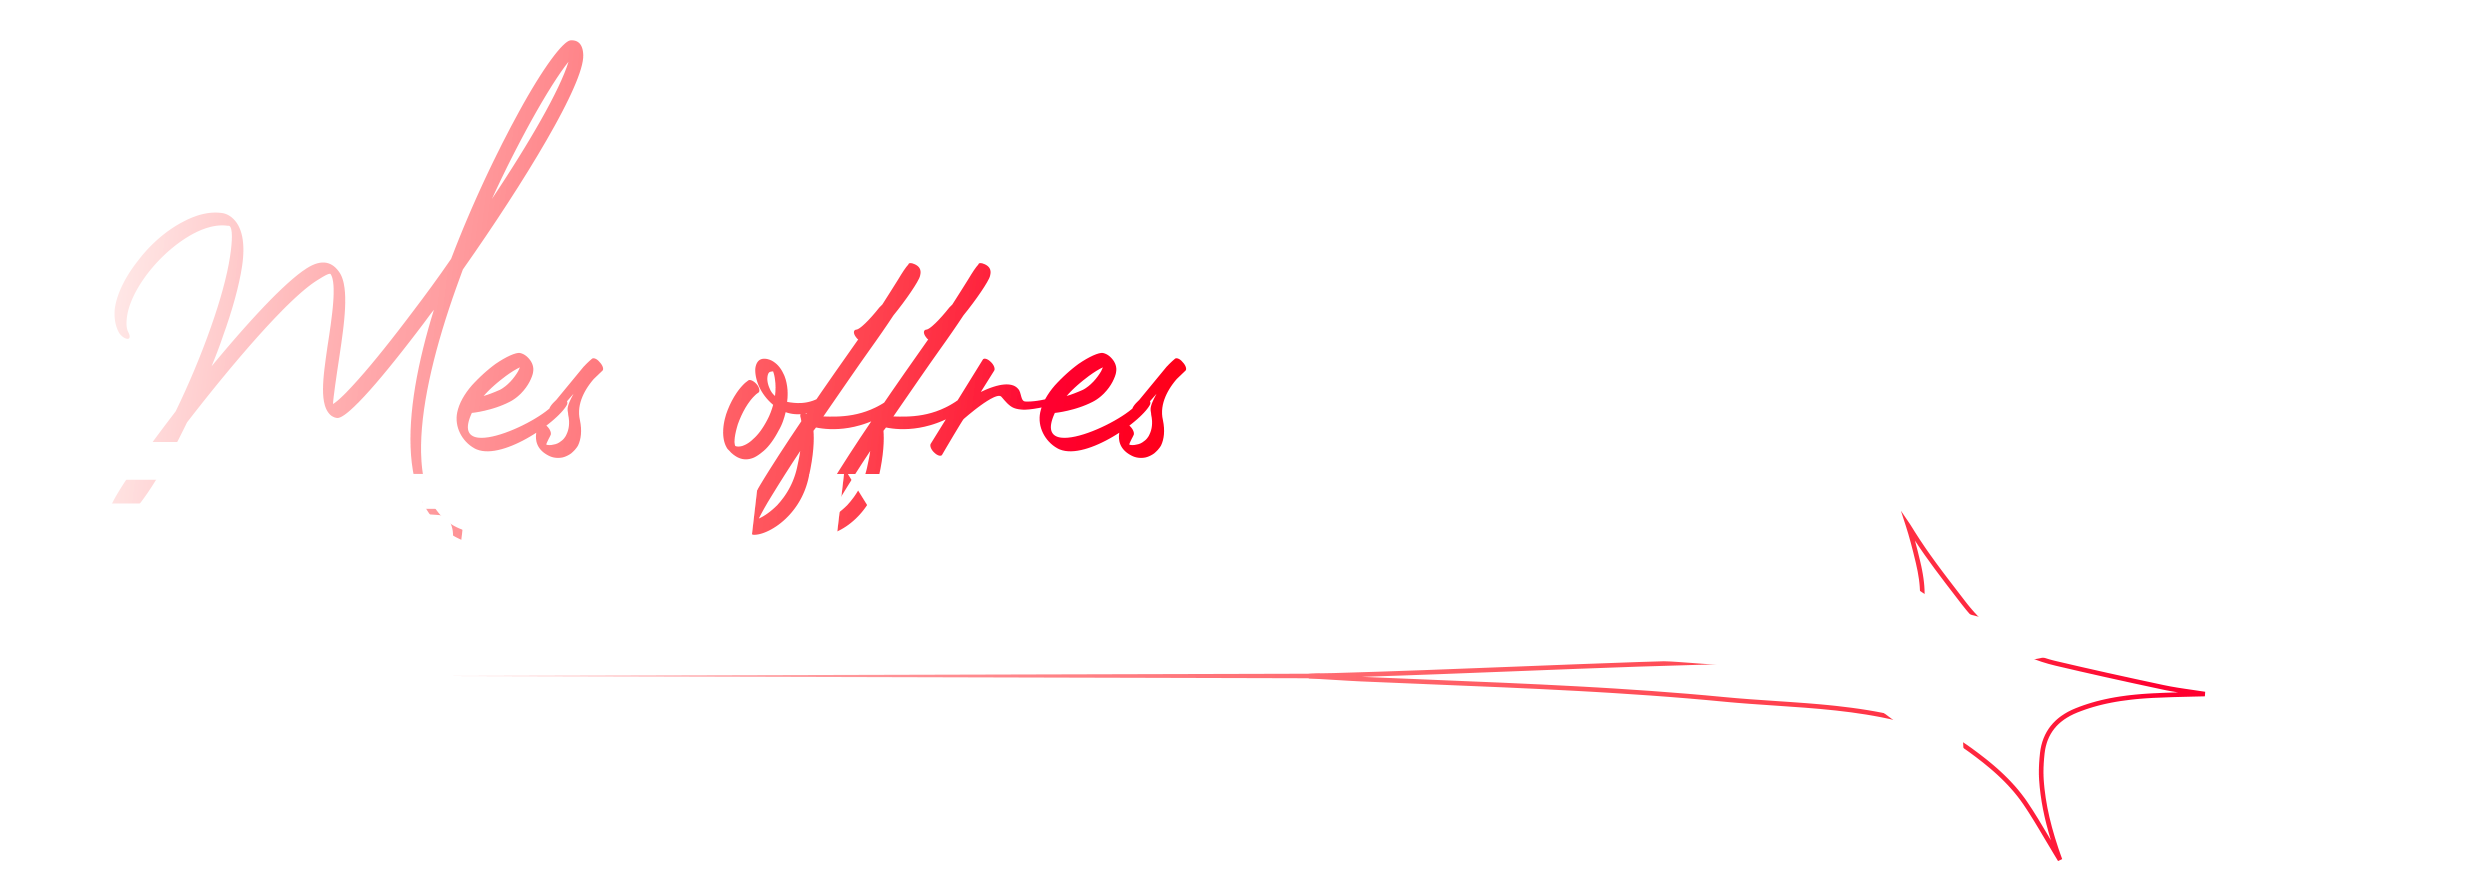
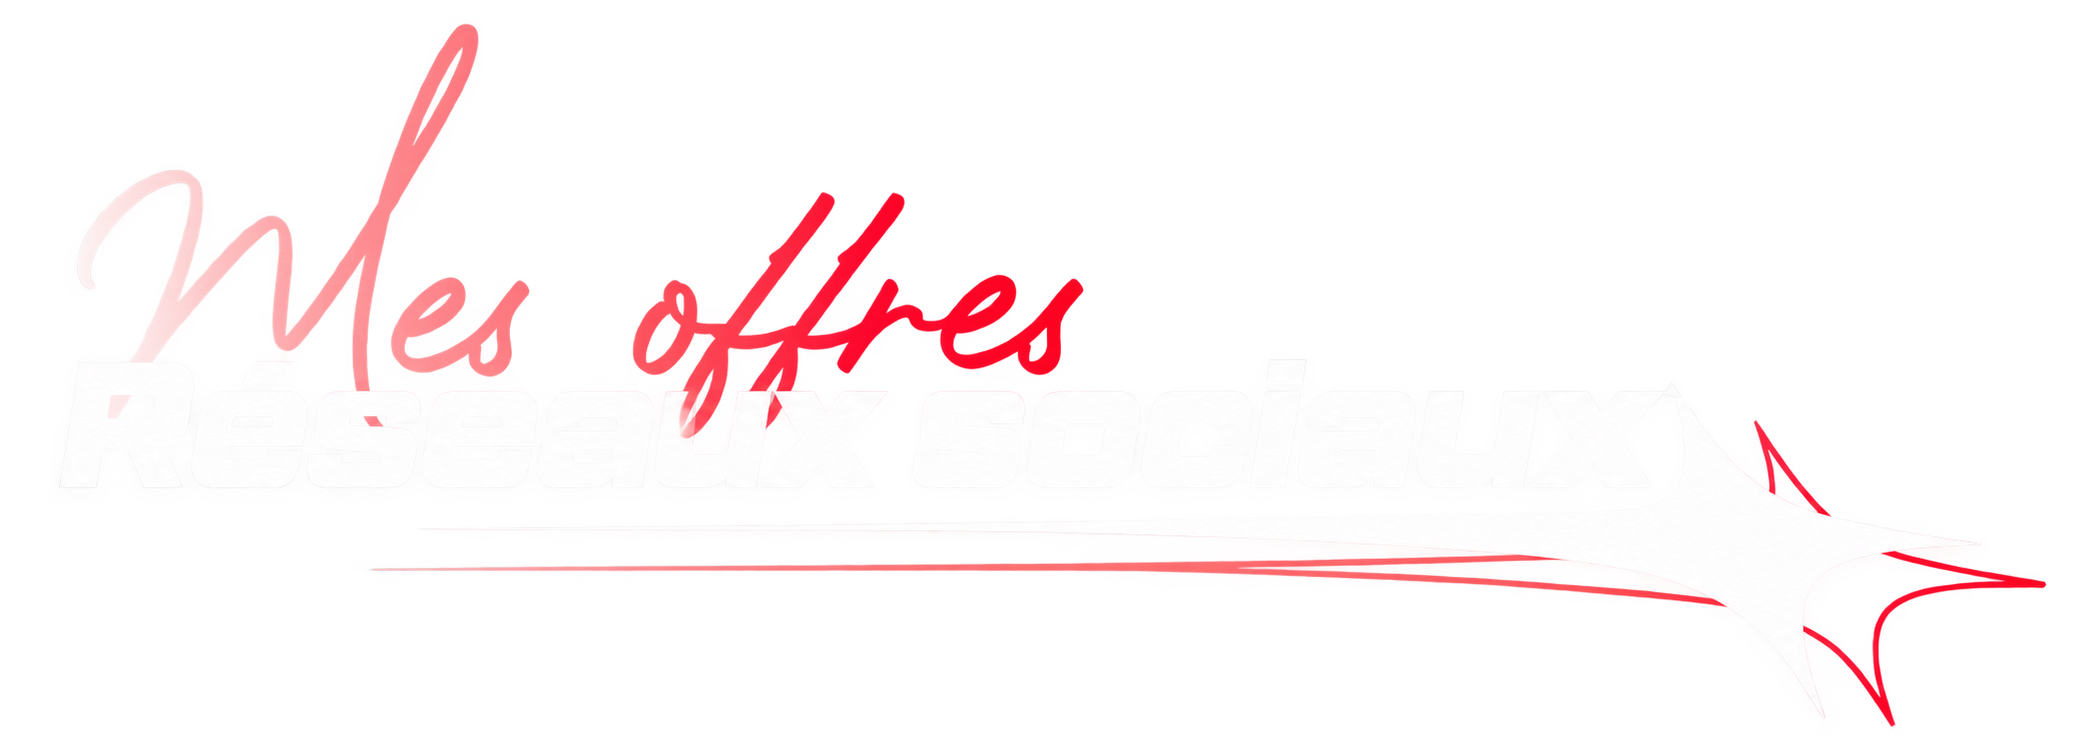
Amélioration des animations et ajustements mobile

diff --git a/assets/js/home-motion.js b/assets/js/home-motion.js
@@ -1,0 +1,186 @@
+/* IMPEC — Accueil, version 3 : scènes coordonnées et rejouables.
+   Charger ce fichier UNE fois, après GSAP et ScrollTrigger, en fin de body. */
+(() => {
+    if (document.body?.dataset.page !== 'accueil') return;
+    if (document.body.dataset.homeMotionBound) return;
+    if (!window.gsap || !window.ScrollTrigger) return;
+    document.body.dataset.homeMotionBound = 'v3';
+    const { gsap, ScrollTrigger } = window;
+    gsap.registerPlugin(ScrollTrigger);
+    const $ = (selector, root = document) => root.querySelector(selector);
+    const $$ = (selector, root = document) => [...root.querySelectorAll(selector)];
+
+    // Un seul moteur possède la présentation et le contact sur cette page.
+    $$('.intro-home [data-aos], .cta-section [data-aos]').forEach(el => {
+        [...el.attributes].forEach(attr => {
+            if (attr.name.startsWith('data-aos')) el.removeAttribute(attr.name);
+        });
+        el.classList.remove('aos-init', 'aos-animate');
+    });
+
+    const media = gsap.matchMedia();
+    media.add({
+        reduced: '(prefers-reduced-motion: reduce)',
+        mobile: '(max-width: 768px)',
+        desktop: '(min-width: 769px)',
+        tablet: '(min-width: 601px) and (max-width: 780px)',
+        phone: '(max-width: 600px)'
+    }, context => {
+        if (context.conditions.reduced) return;
+        const mobile = context.conditions.mobile;
+        const splits = []; const scenes = [];
+        const distance = mobile ? 18 : 38;
+        const duration = mobile ? 0.95 : 1.2;
+
+        function scene(anchor, build) {
+            if (!anchor) return;
+            const timeline = gsap.timeline({ paused: true });
+            const enter = () => timeline.restart();
+            const finish = () => timeline.progress(1).pause(); scenes.push({ anchor, finish });
+            // Mesure avant les translations : le point de départ reste stable.
+            const trigger = ScrollTrigger.create({
+                trigger: anchor,
+                start: mobile ? 'top 88%' : 'top 82%',
+                end: 'bottom top',
+                onEnter: enter,
+                onEnterBack: enter,
+                onLeave: finish,
+                onLeaveBack: finish
+            });
+            // Uniquement hors écran : prépare la prochaine descente sans clignoter.
+            ScrollTrigger.create({
+                trigger: anchor, start: 'top bottom', end: 'bottom top',
+                onLeaveBack: () => timeline.pause(0)
+            });
+            build(timeline);
+            if (trigger.scroll() >= trigger.start) {
+                // Une page rechargée à mi-parcours garde ses contenus accessibles.
+                if (window.scrollY < 8) timeline.play(0); else finish();
+            } else {
+                timeline.pause(0);
+            }
+        }
+
+        function reveal(tl, target, at = 0, kind = 'up', options = {}) {
+            const elements = Array.isArray(target) ? target.filter(Boolean) : target;
+            if (!elements || (Array.isArray(elements) && !elements.length)) return;
+            const { stagger = 0, time = duration, direction = -1 } = options;
+            const from = { opacity: 0 };
+            const to = { opacity: 1 };
+            if (kind === 'side') {
+                from.x = direction * (mobile ? 10 : 26); to.x = 0;
+            } else if (kind === 'image') {
+                from.scale = 1.035; from.y = mobile ? 10 : 20;
+                to.scale = 1; to.y = 0;
+            } else if (kind !== 'button') {
+                from.y = distance; to.y = 0;
+            }
+            tl.fromTo(elements, from, {
+                ...to, duration: time, stagger,
+                ease: 'power2.out', immediateRender: true,
+                clearProps: kind === 'button' ? 'opacity' : 'opacity,transform'
+            }, at);
+        }
+
+        // Seules les courtes phrases sous les titres sont divisées en mots.
+        function phrase(el) {
+            if (!el) return;
+            scene(el, tl => {
+                if (window.SplitText) {
+                    gsap.registerPlugin(window.SplitText);
+                    const split = window.SplitText.create(el, { type: 'words', aria: 'auto' });
+                    splits.push(split);
+                    reveal(tl, split.words, 0, 'side', {
+                        stagger: index => Math.floor(index / 3) * 0.12, time: 0.95
+                    });
+                } else {
+                    reveal(tl, el, 0, 'side');
+                }
+            });
+        }
+
+        // Les titres PNG restent des images ; aucune découpe de lettres.
+        $$('.intro-home .titre-img-1, .services-home .titre-img, .packs-home .titre-img, .projects-home .titre-img').forEach(el => {
+            scene(el, tl => reveal(tl, el, 0, 'up', { time: mobile ? 1 : 1.35 }));
+        });
+        $$('.services-heading .section-label, .packs-home__subtitle').forEach(phrase);
+
+        // Le hero conserve SplitText ; les boutons apparaissent l'un après l'autre.
+        scene($('.hero-actions'), tl => {
+            reveal(tl, $$('.hero-actions > .btn'), 0, 'button', { stagger: 0.18 });
+        });
+
+        const intro = $('.intro-studio-card');
+        scene(intro, tl => {
+            reveal(tl, $('.intro-studio-visual img', intro), 0, 'image');
+            reveal(tl, $$('.intro-studio-text > p', intro), 0.18, 'side', { stagger: 0.18 });
+            reveal(tl, $('.intro-studio-text > .btn', intro), 0.55, 'button');
+        });
+
+        // Chaque partie a son propre seuil : le paragraphe attend d'être visible.
+        $$('.service-home-card').forEach((card, index) => {
+            const media = $('.service-home-card-media', card);
+            const title = $('.service-home-card-top', card);
+            const paragraph = $('.service-home-card-content > p', card);
+            const buttons = $('.service-card-buttons', card);
+            const offset = mobile ? 0 : index * 0.16;
+            scene(media, tl => reveal(tl, media, offset, 'image'));
+            scene(title, tl => reveal(tl, title, offset, 'side', { direction: index % 2 ? 1 : -1 }));
+            scene(paragraph, tl => reveal(tl, paragraph, offset, 'up'));
+            scene(buttons, tl => reveal(tl, $$('.btn', buttons), 0, 'button', { stagger: 0.16, time: 0.95 }));
+        });
+
+        // Cartes du bas, textes du côté, puis visuel : une scène par rangée.
+        const packs = $$('.packs-home__card');
+        function packSequence(tl, card, offset) {
+            reveal(tl, card, offset, 'up');
+            reveal(tl, $('.packs-home__card-heading h3', card), offset + 0.25, 'side');
+            reveal(tl, $('.packs-home__price', card), offset + 0.12, 'button', { time: 0.9 });
+            reveal(tl, $$('.packs-home__features > li', card), offset + 0.32, 'side', {
+                stagger: 0.09, time: 0.85
+            });
+            reveal(tl, $('.packs-home__summary', card), offset + 0.65, 'side', { time: 0.9 });
+            reveal(tl, $('.packs-home__visual', card), offset + 0.55, 'image');
+        }
+        // Respecte automatiquement les rangées réelles (4 / 2 / 1 colonnes).
+        const rows = [];
+        packs.forEach(card => {
+            let row = rows.find(row => Math.abs(row.top - card.offsetTop) < 4);
+            if (!row) { row = { top: card.offsetTop, cards: [] }; rows.push(row); }
+            row.cards.push(card);
+        });
+        rows.forEach(row => scene(row.cards[0], tl => {
+            row.cards.forEach((card, index) => packSequence(tl, card, index * 0.18));
+        }));
+
+        const showcase = $('.projects-home .projects-showcase');
+        // On garde les transformations et les interactions des cartes 3D intactes.
+        scene(showcase, tl => reveal(tl, showcase));
+        $$('.center-button-1, .projects-home .center-button').forEach(el => {
+            scene(el, tl => reveal(tl, $('.btn', el), 0, 'button'));
+        });
+
+        const contact = $('.cta-box');
+        scene(contact, tl => {
+            reveal(tl, $('.cta-box-visual img', contact), 0, 'image');
+            reveal(tl, $$('.cta-box-text > p, .cta-box-text > h2', contact), 0.15, 'side', { stagger: 0.18 });
+            reveal(tl, $('.cta-box-text > .btn', contact), 0.65, 'button');
+        });
+
+        // Sécurité clavier : un élément recevant le focus devient visible aussitôt.
+        const onFocus = event => {
+            scenes.forEach(({ anchor, finish }) => {
+                if (anchor.contains(event.target)) finish();
+            });
+        };
+        document.addEventListener('focusin', onFocus);
+        return () => {
+            document.removeEventListener('focusin', onFocus);
+            splits.forEach(split => split.revert());
+        };
+    });
+    window.addEventListener('load', () => ScrollTrigger.refresh(), { once: true });
+    document.addEventListener('includes:loaded', () => ScrollTrigger.refresh());
+    document.fonts?.ready.then(() => ScrollTrigger.refresh());
+})();
+

diff --git a/assets/js/pages-motion.js b/assets/js/pages-motion.js
@@ -1,0 +1,85 @@
+/* IMPEC — Autres pages : réutilise le système de révélation de main.js.
+   À charger après main.js, avant </body>. Aucune bibliothèque à ajouter. */
+(() => {
+    const page = document.body?.dataset.page;
+    if (!['studio', 'projets', 'services', 'contact'].includes(page)) return;
+    if (document.body.classList.contains('impec-pages-motion')) return;
+    if (!('IntersectionObserver' in window)) return;
+
+    const style = document.createElement('style');
+    style.textContent = `
+        body.impec-pages-motion .reveal-on-scroll {
+            transition-duration: 1.1s;
+            transition-timing-function: cubic-bezier(.22, 1, .36, 1);
+        }
+        body.impec-pages-motion .reveal-left { transform: translateX(-24px); }
+        body.impec-pages-motion .reveal-right { transform: translateX(24px); }
+        body.impec-pages-motion .reveal-top { transform: translateY(-24px); }
+        body.impec-pages-motion .reveal-bottom { transform: translateY(24px); }
+        body.impec-pages-motion .reveal-on-scroll.is-visible,
+        body.impec-pages-motion .reveal-on-scroll:focus-within {
+            opacity: 1; transform: none;
+        }
+        body.impec-pages-motion [data-impec-fade] { transform: none; }
+        @media (max-width: 768px) {
+            body.impec-pages-motion .reveal-on-scroll { transition-duration: .9s; }
+            body.impec-pages-motion .reveal-left,
+            body.impec-pages-motion .reveal-right,
+            body.impec-pages-motion .reveal-bottom { transform: translateY(14px); }
+            body.impec-pages-motion .reveal-on-scroll.is-visible,
+            body.impec-pages-motion .reveal-on-scroll:focus-within,
+            body.impec-pages-motion [data-impec-fade] { transform: none; }
+        }
+        @media (prefers-reduced-motion: reduce) {
+            body.impec-pages-motion .reveal-on-scroll {
+                opacity: 1 !important; transform: none !important;
+                transition: none !important;
+            }
+        }
+    `;
+    document.head.appendChild(style);
+    document.body.classList.add('impec-pages-motion');
+
+    function add(selector, direction = 'bottom', step = 0) {
+        document.querySelectorAll(selector).forEach((el, index) => {
+            // Évite d'animer à la fois un bloc existant et son contenu.
+            if (el.closest('.reveal-on-scroll, [data-aos]')) return;
+            el.classList.add('reveal-on-scroll', `reveal-${direction}`);
+            el.dataset.revealDelay = String((index % 2) * step);
+            if (direction === 'fade') el.dataset.impecFade = 'true';
+        });
+    }
+
+    add('.page-hero .titre-img-projets');
+    if (page === 'studio') {
+        add('.studio-hero-description');
+        add('.about-showcase-left-title', 'left');
+        add('.about-vision-box > p', 'bottom', 120);
+        add('.about-method-title', 'right');
+        add('.about-showcase-right > p');
+    }
+    if (page === 'services') {
+        add('.service-row-media');
+        add('.service-row-text > h2, .service-row-text > h3', 'left');
+        add('.service-row-text > p', 'bottom', 100);
+        add('.service-inline-buttons', 'fade');
+        add('.cta-box-text > h2, .cta-box-text > p', 'bottom', 100);
+        add('.cta-box-text > .btn', 'fade');
+        add('.cta-box-visual', 'right');
+    }
+    if (page === 'projets' && !document.body.dataset.projectCurrent) {
+        add('.projects-page .projects-grid-page > .project-card-page', 'bottom', 140);
+    }
+    if (page === 'contact') {
+        add('.contact-showcase-left > h1, .contact-showcase-left > h2, .contact-intro');
+        add('.contact-cards > .contact-link-card', 'bottom', 100);
+        // Le formulaire reste immobile, et visible dès qu'un champ reçoit le focus.
+        add('.contact-form-showcase', 'fade');
+    }
+    // Les projets détaillés conservent leurs révélations déjà présentes,
+    // leur bannière horizontale et leur galerie défilante.
+    // main.js observe les nouvelles classes au DOMContentLoaded.
+    if (document.readyState !== 'loading' && typeof window.initRevealAnimations === 'function') {
+        window.initRevealAnimations();
+    }
+})();

diff --git a/assets/css/responsive.css b/assets/css/responsive.css
@@ -3299,3 +3299,53 @@
         margin-top: 0;
     }
 }
+/* Autoriser les retours à la ligne après la découpe des mots. */
+body[data-page="accueil"] .services-heading .section-label {
+    display: block;
+    max-width: 100%;
+    white-space: normal;
+}
+
+/* Téléphone : centrer le contenu des packs, conserver le prix à gauche. */
+@media (max-width: 600px) {
+    .packs-home .packs-home__card,
+    .packs-home .packs-home__card-heading h3,
+    .packs-home .packs-home__features,
+    .packs-home .packs-home__summary,
+    .packs-home .packs-home__heading > .packs-home__subtitle {
+        text-align: center;
+    }
+
+    .packs-home .packs-home__features li {
+        padding-left: 0;
+        text-align: center;
+    }
+
+    .packs-home .packs-home__features li::before {
+        position: static;
+        display: inline;
+        margin-right: 7px;
+    }
+
+    .packs-home .packs-home__card {
+        display: flex;
+        flex-direction: column;
+        align-items: center;
+    }
+
+    .packs-home .packs-home__visual {
+        display: block;
+        width: 100%;
+        max-width: 300px;
+        height: auto;
+        margin: 15px auto 0;
+        align-self: center;
+        object-fit: contain;
+    }
+
+    .packs-home .packs-home__price {
+        text-align: left;
+    }
+
+
+}

diff --git a/index.html b/index.html
@@ -464,5 +464,6 @@
     <script src="https://cdn.jsdelivr.net/npm/gsap@3.13.0/dist/gsap.min.js"></script>
     <script src="https://cdn.jsdelivr.net/npm/gsap@3.13.0/dist/ScrollTrigger.min.js"></script>
     <script src="https://cdn.jsdelivr.net/npm/gsap@3.13.0/dist/SplitText.min.js"></script>
+    <script src="assets/js/home-motion.js"></script>
 </body>
 </html>

diff --git a/apropos.html b/apropos.html
@@ -100,5 +100,6 @@
 
     <script src="assets/js/includes.js"></script>
     <script src="assets/js/main.js"></script>
+    <script src="assets/js/pages-motion.js"></script>
 </body>
 </html>

diff --git a/contact.html b/contact.html
@@ -102,5 +102,6 @@
 
     <script src="assets/js/includes.js"></script>
     <script src="assets/js/main.js"></script>
+    <script src="assets/js/pages-motion.js"></script>
 </body>
 </html>

diff --git a/projets.html b/projets.html
@@ -180,5 +180,6 @@
 
     <script src="assets/js/includes.js"></script>
     <script src="assets/js/main.js"></script>
+    <script src="assets/js/pages-motion.js"></script>
 </body>
 </html>

diff --git a/services.html b/services.html
@@ -148,5 +148,6 @@
 
     <script src="assets/js/includes.js"></script>
     <script src="assets/js/main.js"></script>
+    <script src="assets/js/pages-motion.js"></script>
 </body>
 </html>
